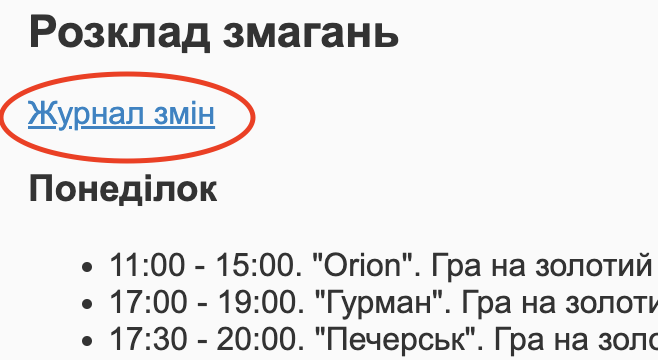
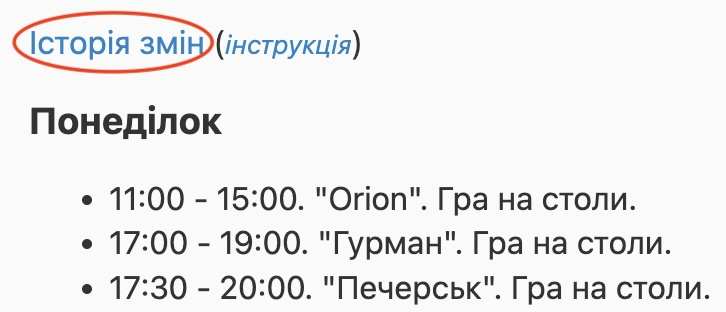
Change log instructions cosmetic update.

Changed region(s): [[0.0304, 0.4615, 1.0, 0.9808], [0.0, 0.0288, 0.6079, 0.4615]]

diff --git a/index.html b/index.html
@@ -1096,7 +1096,7 @@
 
 <h2 id="schedule">Клубні змагання</h2>
 
-<a href="https://github.com/sdemchenko/kyiv-table-tennis/commits/main/schedule.md?diff=split">Журнал змін</a>
+<a href="https://github.com/sdemchenko/kyiv-table-tennis/commits/main/schedule.md?diff=split">Історія змін</a>
 (<a href="assets/changelog/" style="font-size: small; font-style: italic">інструкція</a>)
 
 <div id="scheduleContainer" data-src="schedule.md">

diff --git a/assets/changelog/index.html b/assets/changelog/index.html
@@ -2,7 +2,7 @@
 <html lang="en">
 <head>
     <meta charset="UTF-8">
-    <title>Як переглядати журнал змін</title>
+    <title>Як переглядати історію змін</title>
     <style> body {text-align: center; font-family: Arial, sans-serif;} </style>
 </head>
 <body>
